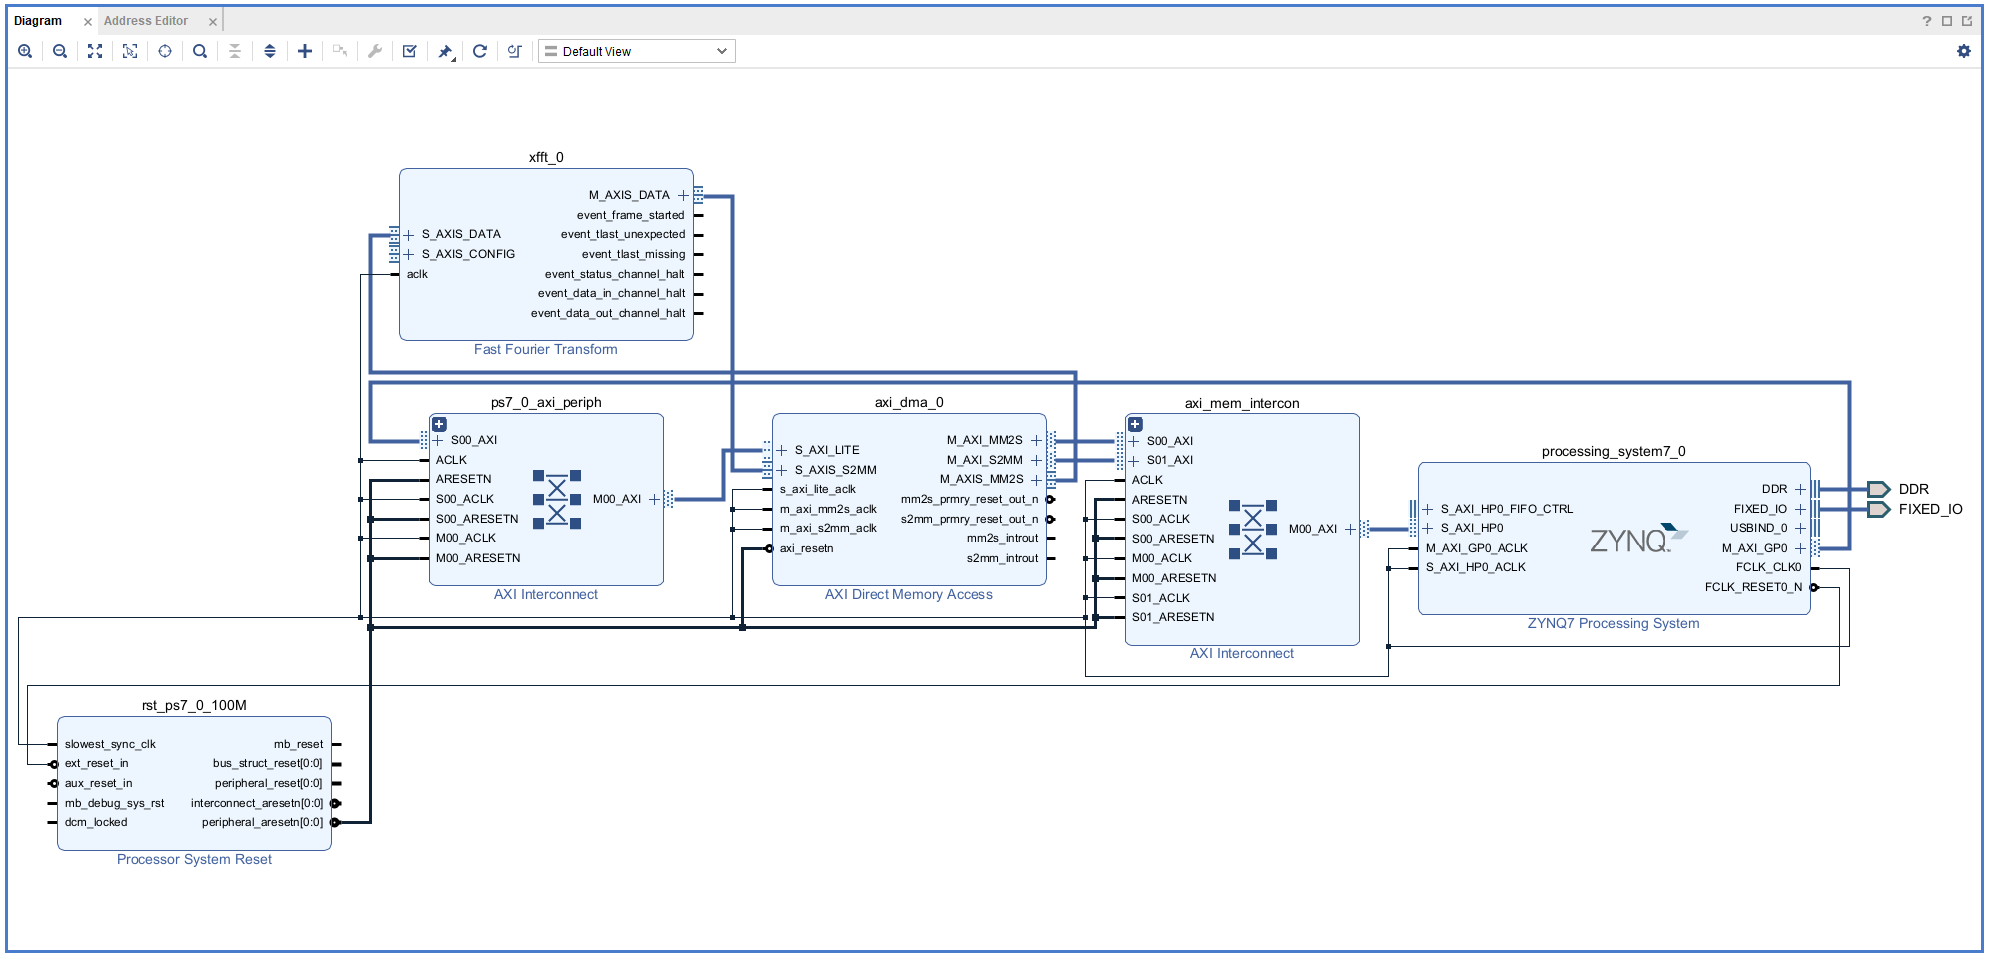
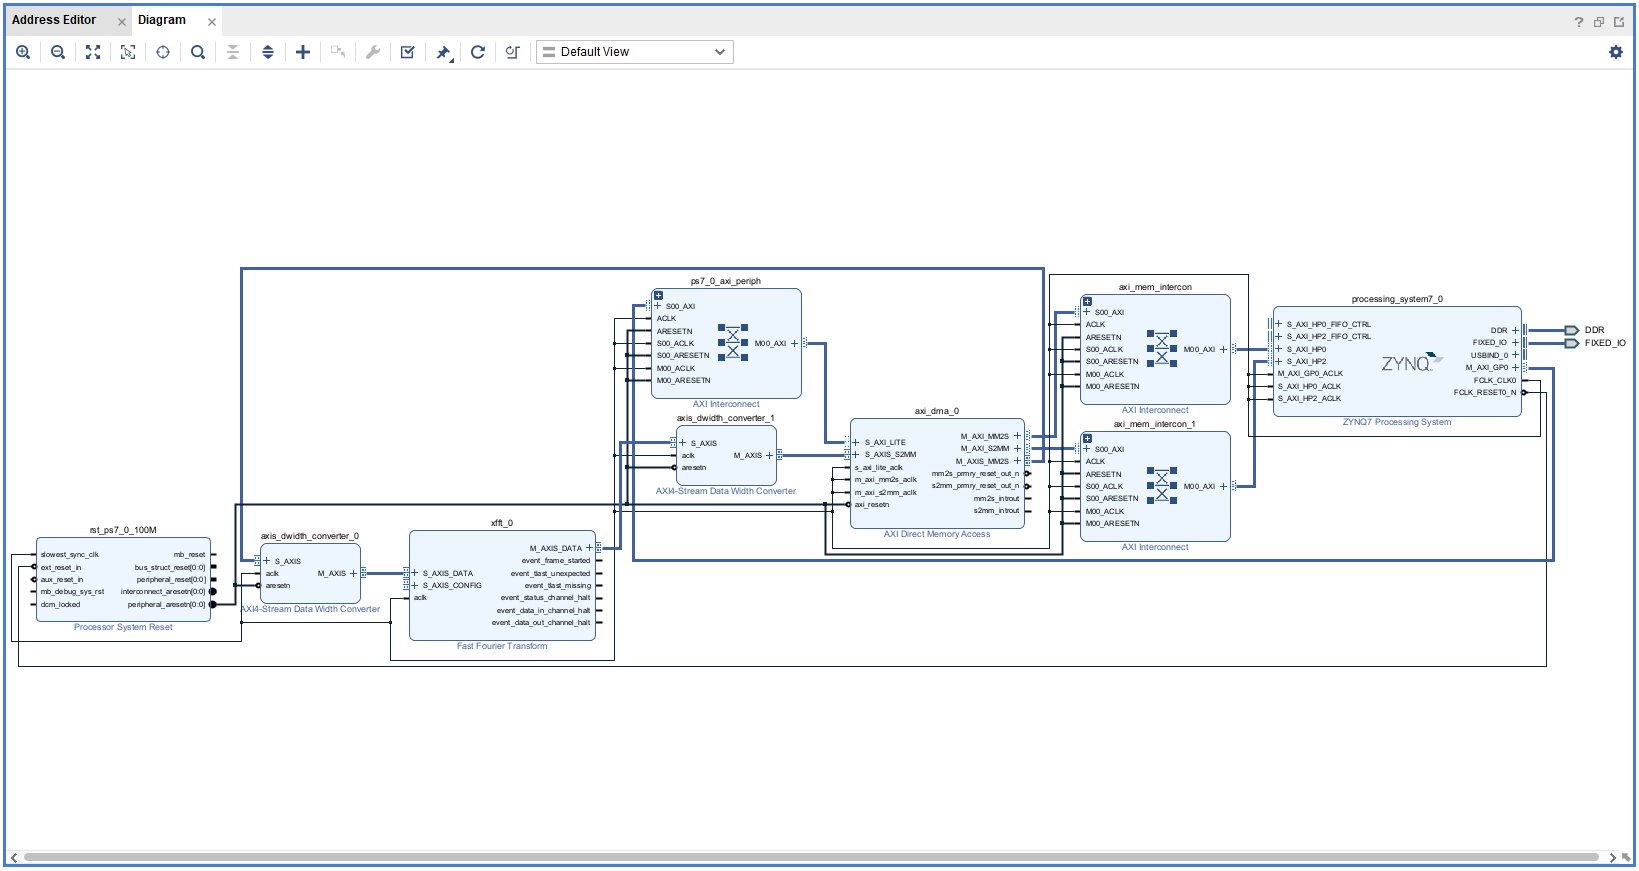
docs: update Part 7-DMA README with new images and improved instructions for DMA setup

diff --git a/Hardware-Software-Codesign/Part7-DMA/README.md b/Hardware-Software-Codesign/Part7-DMA/README.md
@@ -82,7 +82,6 @@ DMA 在 Xilinx 提供的 IP 當中有分兩種 Mode，分別是 `Scatter Gather 
 2. 加入 `Zynq7_PS`、`AXI_DMA`、`Fast Fourier Transform`、`AXI4-Stream Data Width Converter * 2`，並且 `Run Block Automation`
 
     ![Add_IP](./png/Add_IP.png)
-    ![alt text](image.png)
 
 3. 點開 `Zynq7_PS` 的設定介面，`PS-PL Configuration > HP Slave AXI interface > S AXI HP0 interface and S AXI HP2 interface` 將兩者都打勾並且將 width 都設定成 **64bit**
 
@@ -161,17 +160,24 @@ DMA 在 Xilinx 提供的 IP 當中有分兩種 Mode，分別是 `Scatter Gather 
 
     ![DMA_to_FFT](./png/DMA_to_FFT.png)
 
-9. `Run Connection Automation 兩次`，最後 Block Design 將如下方所示
+9. `Run Connection Automation`
+
+    ![Auto_Connection_1](./png/Auto_Connection_1.png)
+
+    ![Auto_Connection_2](./png/Auto_Connection_2.png)
+
+10. 最後的 Block Design 和 Address Editor 如下圖所示
 
     ![Final_BD](./png/Final_BD.png)
 
-10. Create HDL Wrapper
+    ![Address_Editor](./png/Address_Editor.png)
 
-11. Generate Bitstream 並 Export Hardware Bitstream
+    > 📌 Address Editor  
+    > 在 PYNQ-Z2 的 CPU 所使用的記憶體區間即為 `0x1000_0000 ~ 0x1FFF_FFFF (512MB)`，因此 DMA 所連接的 HP Port 必須 Memory Map 到該記憶體區段，在 Vivado 2023.2 的版本會自動幫你分配到該區段
 
-> 📌 Address Editor  
-> 在 PYNQ-Z2 的 CPU 所使用的記憶體區間即為 `0x1000_0000 ~ 0x1FFF_FFFF (512MB)`，因此 DMA 所連接的 HP Port 必須 Memory Map 到該記憶體區段，在 Vivado 2023.2 的版本會自動幫你分配到該區段
-> ![Address_Editor](./png/Address_Editor.png)
+11. Create HDL Wrapper
+
+12. Generate Bitstream 並 Export Hardware Bitstream
 
 ## Part 7.2 Jupyter Notebook
 
